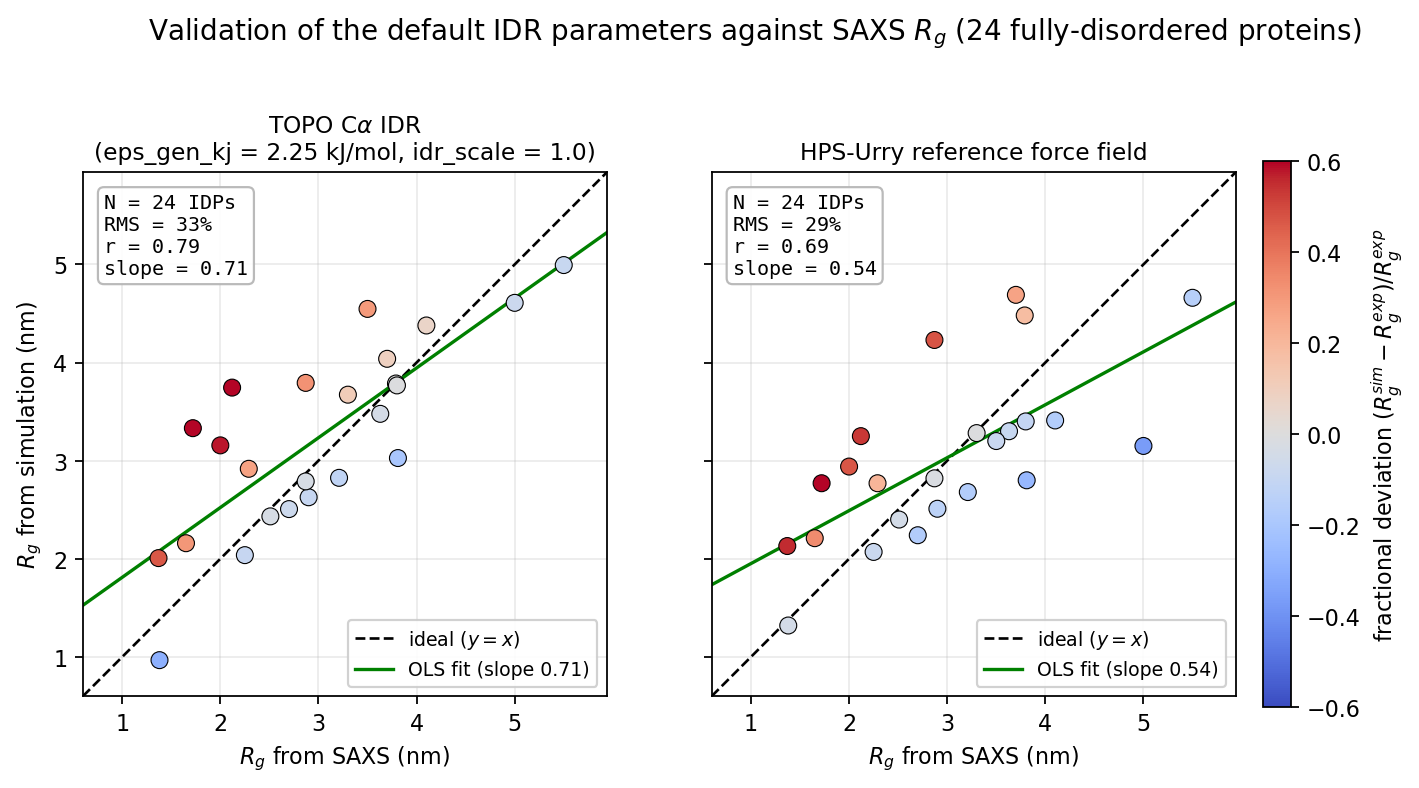
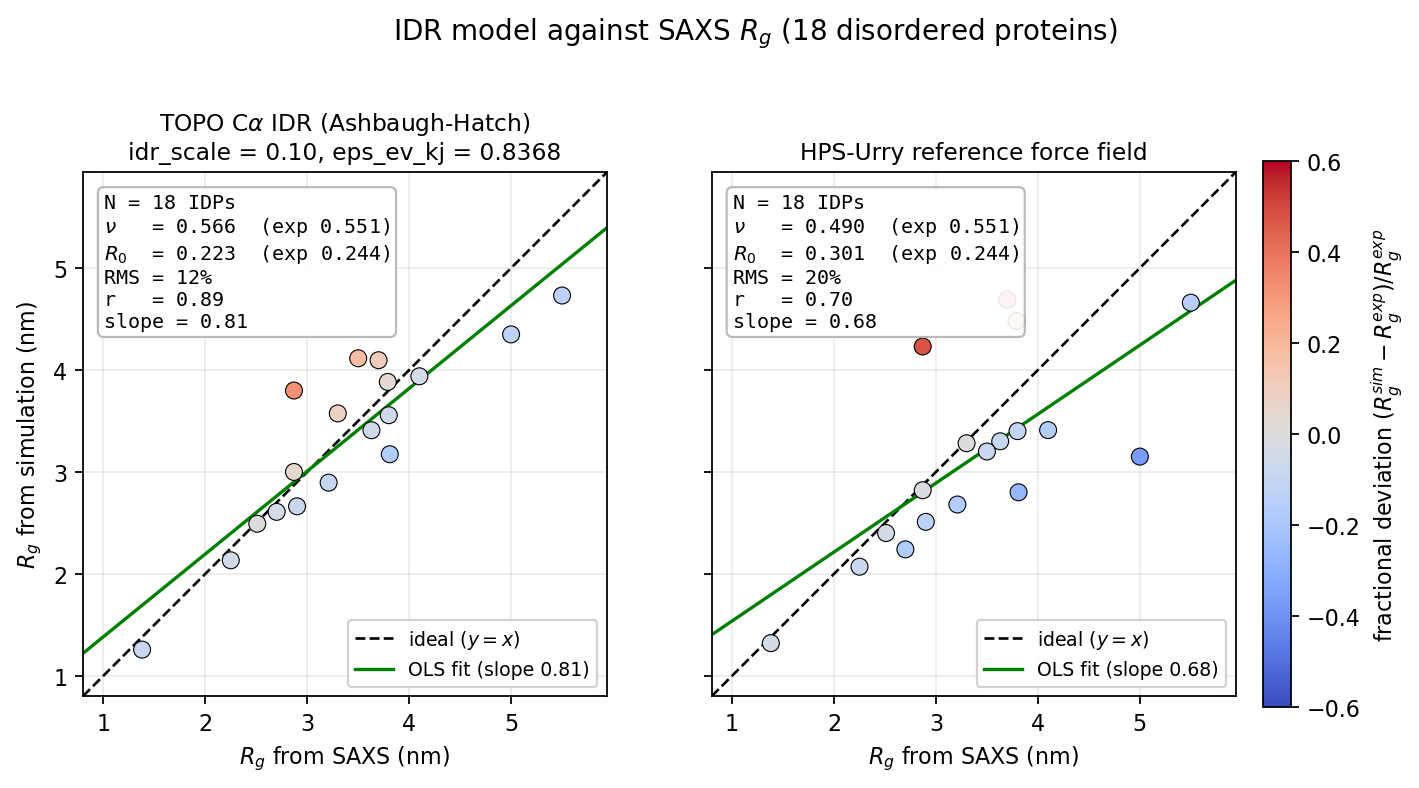
docs(idr): regenerate the validation figure from the 18-IDP Ashbaugh-Hatch runs
The previous figure plotted the retired coupled-12-10-6 defaults
(idr_scale = 1.0, eps_gen_kj = 2.25) over all 24 benchmark proteins, so it was
left unreferenced when the validation section was rewritten. Regenerate it from
the calibrated cell of the Ashbaugh-Hatch grid -- idr_scale = 0.10,
eps_ev_kj = 0.8368 -- over the 18 IDPs, with HPS-Urry on the same 18 as the
reference panel, and restore the figure to the page.

Every metric in the figure reproduces the numbers already in the validation
table, computed independently from rg_ah_results.csv: TOPO nu 0.566 / R0 0.223 /
RMS 12.0% / r 0.89 / slope 0.81; HPS-Urry 0.490 / 0.301 / 19.7% / 0.70 / 0.68;
experiment 0.551 / 0.244. The panels now also carry nu and R0 against the
experimental values, since the scaling exponent is what the section leads with.

Generated by sandbox/Tune_idr_scale/make_validation_fig_ah.py (sandbox is not
tracked); it supersedes make_validation_fig.py, whose data source no longer
corresponds to any shipped parameter.

diff --git a/docs/usage/disordered_regions.rst b/docs/usage/disordered_regions.rst
@@ -486,6 +486,17 @@ the reported :math:`R_g` is the mass-weighted ensemble average
    revisited, and the 6 are always reported as a control rather than dropped
    silently.
 
+.. figure:: img/idr_validation.png
+   :width: 100%
+   :alt: TOPO and HPS-Urry radii of gyration versus SAXS for 18 disordered proteins
+
+   **Left:** TOPO's Cα IDR model at the calibrated defaults ``idr_scale = 0.10``,
+   ``eps_ev_kj = 0.8368`` kJ/mol. **Right:** the HPS-Urry force field on the same 18
+   proteins, as an external reference point. Dashed line is :math:`y = x`; green is
+   the ordinary-least-squares fit; point colour is the fractional deviation. TOPO
+   tracks :math:`y = x` across the range, while HPS-Urry runs systematically compact
+   (blue) and flattens at the expanded end — the slope difference, 0.81 against 0.68.
+
 Fitting the scaling law :math:`R_g = R_0 N^{\nu}` over the 18 IDPs, at
 ``idr_scale = 0.10`` and ``eps_ev_kj = 0.8368``:
 
